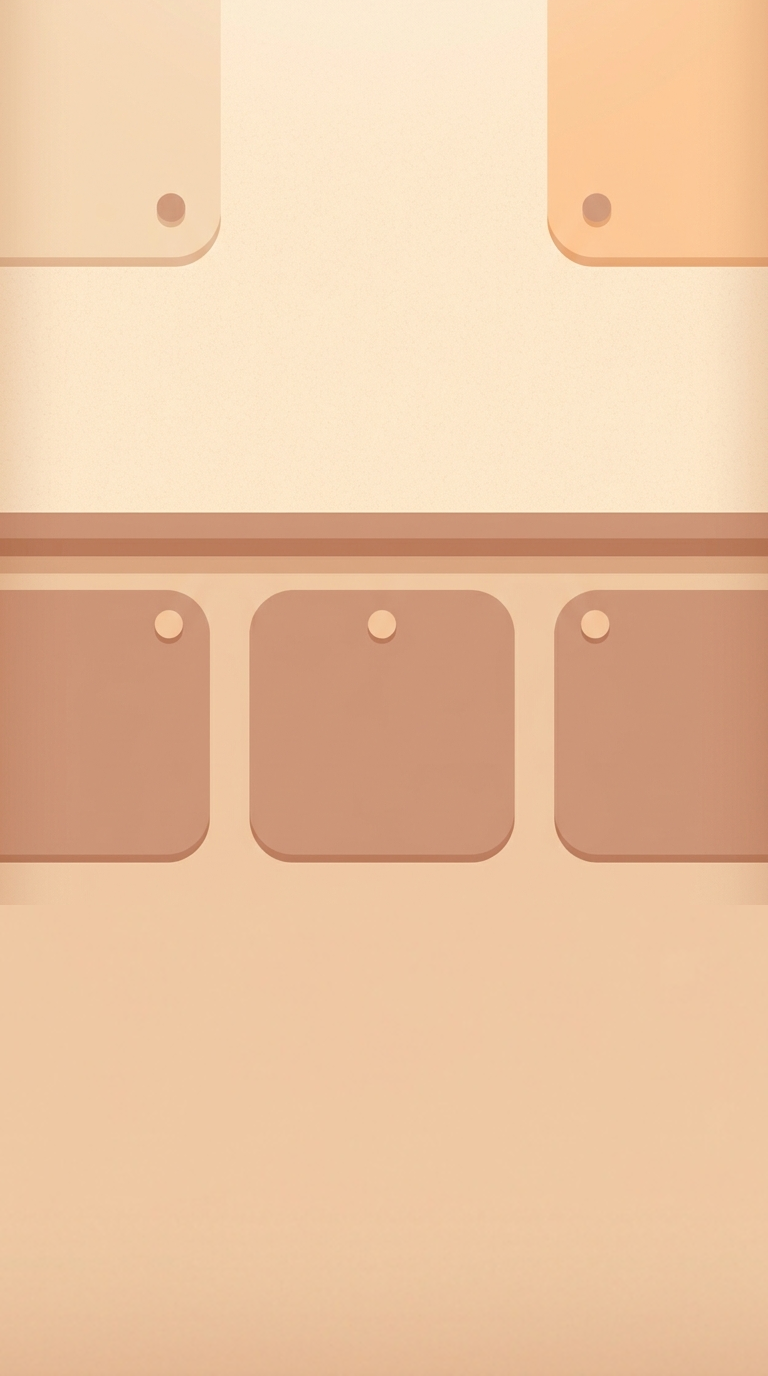
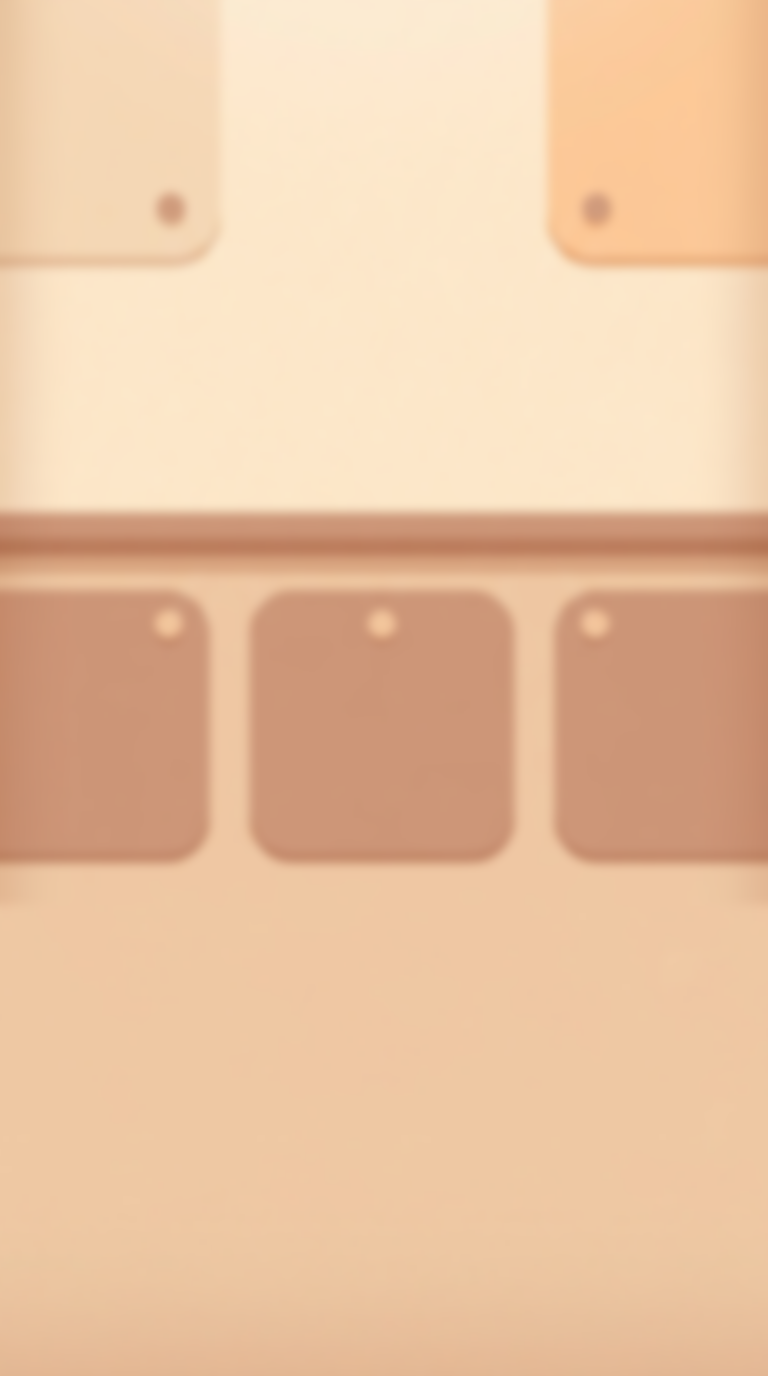
se optimizo el juego en cuanto costo de efectos y se rediseño la pantalla de inicio

diff --git a/src/App.vue b/src/App.vue
@@ -212,48 +212,50 @@ onBeforeUnmount(() => {
   <main class="min-h-screen w-full">
     <section
       v-if="screen === 'home'"
-      class="mx-auto flex min-h-screen w-full max-w-md flex-col justify-between px-4 pb-6 pt-5"
+      class="relative mx-auto flex min-h-screen w-full max-w-md flex-col justify-center items-center overflow-hidden px-4 pb-8 pt-5 bg-[url('/images/game.png')] bg-cover bg-center"
     >
-      <div class="flex min-h-[calc(100vh-2.75rem)] flex-col justify-between rounded-[36px] border border-white/45 bg-[linear-gradient(180deg,rgba(255,248,231,0.88),rgba(226,187,133,0.92))] p-6 shadow-[0_22px_42px_rgba(73,42,20,0.18)]">
-        <div>
-          <p class="text-xs font-black uppercase tracking-[0.38em] text-amber-800/75">Cabinet Mode</p>
-          <h1 class="mt-3 text-4xl font-black leading-none text-[var(--ink)]">Tap the Rat</h1>
-          <p class="mt-4 max-w-sm text-sm leading-6 text-amber-950/80">
-            Golpea ratones, evita trampas y alcanza la meta dentro de esta alacena caótica.
-          </p>
-        </div>
+      
 
-        <div class="relative mt-8 flex flex-1 items-center justify-center">
-          <div class="cabinet-shadow relative flex h-[22rem] w-full max-w-sm items-center justify-center overflow-hidden rounded-[34px] border border-white/50 bg-[linear-gradient(180deg,#cf9a68_0%,#8e5d3b_100%)]">
-            <div class="absolute inset-0 bg-[radial-gradient(circle_at_top,rgba(255,245,213,0.25),transparent_32%)]" />
-            <div class="absolute inset-x-5 top-[5.5rem] h-6 rounded-full wood-plank" />
-            <div class="absolute inset-x-5 top-[10.5rem] h-6 rounded-full wood-plank" />
-            <div class="absolute inset-x-5 bottom-[5.5rem] h-6 rounded-full wood-plank" />
-            <div class="absolute left-7 top-[6.5rem] text-4xl">🐭</div>
-            <div class="absolute right-7 bottom-[6.5rem] text-4xl">🧨</div>
-            <div class="cat-bop text-8xl">🐱</div>
-          </div>
-        </div>
+      <div class="pointer-events-none absolute left-1/2 top-3/4 h-[400px] w-[400px] -translate-x-1/2 -translate-y-1/2">
+        <div
+          class="cat-idle h-full w-full bg-no-repeat opacity-95 brightness-95 drop-shadow-xl"
+          style="background-image: url('/images/cat_sprite.png'); background-position: -2400px 0; background-size: 2800px 400px;"
+        ></div>
+      </div> 
 
-        <div class="soft-panel rounded-[28px] border border-white/50 p-4">
-          <div class="flex items-center justify-between text-xs font-black uppercase tracking-[0.24em] text-amber-800/75">
-            <span>Precarga</span>
-            <span>{{ preloadProgress }}%</span>
-          </div>
-          <div class="mt-3 h-3 overflow-hidden rounded-full bg-amber-950/10">
-            <div
-              class="h-full rounded-full bg-gradient-to-r from-orange-400 via-amber-500 to-lime-500 transition-[width] duration-150"
-              :style="{ width: `${preloadProgress}%` }"
-            />
-          </div>
-          <PressButton
-            class="mt-4 w-full rounded-2xl bg-[var(--wood-dark)] px-5 py-4 text-base font-black text-[var(--cream)] transition hover:brightness-110 disabled:cursor-not-allowed disabled:opacity-40"
-            :disabled="!canPlay"
-            @click="startGame"
-          >
-            Jugar
-          </PressButton>
+      <div class="absolute inset-0 bg-stone-950/45" />
+
+      <div class="relative z-20 text-center text-white p-4">
+
+        <p class="text-sm font-semibold uppercase tracking-[0.45em] text-amber-950/80">
+          Tap the Rat
+        </p>
+        <h1 class="mt-4 text-5xl font-black tracking-tight">
+          Captura los Ratones
+        </h1>
+        <p class="mt-4 max-w-sm text-sm leading-6 text-white/80">
+          {{ canPlay ? 'Golpea ratones, evita bombas y cumple la meta antes de que se acabe el tiempo.' : 'Cargando recursos...' }}
+        </p>
+
+        <div class="mt-6 h-3 overflow-hidden rounded-full bg-amber-950/12">
+          <div
+            class="h-full rounded-full bg-gradient-to-r from-orange-400 via-amber-500 to-lime-500 transition-[width] duration-150"
+            :style="{ width: `${preloadProgress}%` }"
+          />
         </div>
+        <div class="flex items-center justify-between text-xs font-black uppercase tracking-[0.24em">
+          <span>Precarga</span>
+          <span>{{ preloadProgress }}%</span>
+        </div>
+        
+        
+        <PressButton
+          class="mt-6 w-auto px-10 mx-auto rounded-full bg-white py-3 uppercase text-base text-black font-black transition hover:brightness-110 disabled:cursor-not-allowed disabled:opacity-40"
+          :disabled="!canPlay"
+          @click="startGame"
+        >
+          Jugar
+        </PressButton>
       </div>
     </section>
 

diff --git a/src/components/GameBoard.vue b/src/components/GameBoard.vue
@@ -1,5 +1,5 @@
 <script setup lang="ts">
-import { computed, ref } from 'vue'
+import { computed, onBeforeUnmount, ref } from 'vue'
 import CatPlayer from './CatPlayer.vue'
 import SpawnPoint from './SpawnPoint.vue'
 import { GAME_CONFIG } from '../game/config/gameConfig'
@@ -24,6 +24,8 @@ const bombOverlayActive = ref(false)
 let clawSoundTemplate: HTMLAudioElement | null = null
 let bombSoundTemplate: HTMLAudioElement | null = null
 let bombOverlayTimer: number | null = null
+const scratchTimers = new Set<number>()
+const explosionTimers = new Set<number>()
 
 function pointFor(row: number, side: SpawnPointModel['side']) {
   return props.spawnPoints.find((point) => point.row === row && point.side === side)
@@ -40,10 +42,9 @@ function playScratchSound() {
     clawSoundTemplate.volume = 0.8
   }
 
-  const sound = clawSoundTemplate.cloneNode() as HTMLAudioElement
-  sound.volume = clawSoundTemplate.volume
-  sound.currentTime = 0.18
-  void sound.play().catch(() => {})
+  clawSoundTemplate.pause()
+  clawSoundTemplate.currentTime = 0.18
+  void clawSoundTemplate.play().catch(() => {})
 }
 
 function playBombSound() {
@@ -53,10 +54,9 @@ function playBombSound() {
     bombSoundTemplate.volume = 0.9
   }
 
-  const sound = bombSoundTemplate.cloneNode() as HTMLAudioElement
-  sound.volume = bombSoundTemplate.volume
-  sound.currentTime = 0.18
-  void sound.play().catch(() => {})
+  bombSoundTemplate.pause()
+  bombSoundTemplate.currentTime = 0.18
+  void bombSoundTemplate.play().catch(() => {})
 }
 
 function addScratch(clientX: number, clientY: number, rect: DOMRect) {
@@ -68,9 +68,12 @@ function addScratch(clientX: number, clientY: number, rect: DOMRect) {
   scratches.value = [...scratches.value, { id, x, y, rotate }]
   playScratchSound()
 
-  window.setTimeout(() => {
+  const timer = window.setTimeout(() => {
     scratches.value = scratches.value.filter((scratch) => scratch.id !== id)
+    scratchTimers.delete(timer)
   }, GAME_CONFIG.scratchAnimationMs)
+
+  scratchTimers.add(timer)
 }
 
 function addExplosion(clientX: number, clientY: number, rect: DOMRect) {
@@ -81,9 +84,12 @@ function addExplosion(clientX: number, clientY: number, rect: DOMRect) {
   explosions.value = [...explosions.value, { id, x, y }]
   playBombSound()
 
-  window.setTimeout(() => {
+  const timer = window.setTimeout(() => {
     explosions.value = explosions.value.filter((explosion) => explosion.id !== id)
+    explosionTimers.delete(timer)
   }, GAME_CONFIG.bombExplosionAnimationMs)
+
+  explosionTimers.add(timer)
 }
 
 function triggerBombOverlay() {
@@ -111,11 +117,11 @@ function handleAttack(row: number, side: SpawnPointModel['side'], clientX: numbe
   const centerY = rect.top + rect.height / 2
   const rat = ratFor(row, side)
 
-  addScratch(clientX, clientY, rect)
-
   if (rat?.type === 'bomb') {
     addExplosion(clientX, clientY, rect)
     triggerBombOverlay()
+  } else {
+    addScratch(clientX, clientY, rect)
   }
 
   emit('attack', row, side, {
@@ -123,6 +129,22 @@ function handleAttack(row: number, side: SpawnPointModel['side'], clientX: numbe
     y: (clientY - centerY) / (rect.height / 2)
   })
 }
+
+onBeforeUnmount(() => {
+  scratchTimers.forEach((timer) => window.clearTimeout(timer))
+  explosionTimers.forEach((timer) => window.clearTimeout(timer))
+  scratchTimers.clear()
+  explosionTimers.clear()
+
+  if (bombOverlayTimer !== null) {
+    window.clearTimeout(bombOverlayTimer)
+    bombOverlayTimer = null
+  }
+
+  scratches.value = []
+  explosions.value = []
+  bombOverlayActive.value = false
+})
 </script>
 
 <template>
@@ -135,15 +157,16 @@ function handleAttack(row: number, side: SpawnPointModel['side'], clientX: numbe
                 bg-[url('/images/game.png')] 
                 bg-cover 
                 bg-center
-                opacity-50 blur-[2px] 
+                opacity-50
                 scale-105
                 z-0">
     </div>
     <div
       class="pointer-events-none absolute inset-0 z-40 transition-opacity duration-300"
       :class="bombOverlayActive ? 'opacity-100' : 'opacity-0'"
-      style="background: rgba(32, 19, 14, 0.34); backdrop-filter: blur(10px);"
-    />
+    >
+      <div class="bomb-penalty-overlay absolute inset-0" />
+    </div>
     <div class="relative flex h-full flex-col justify-center gap-12 pt-28 pb-28">
       <div
         v-for="row in rows"

diff --git a/src/style.css b/src/style.css
@@ -61,10 +61,17 @@ button {
 }
 
 .bomb-burst {
-  width: 5rem;
-  height: 5rem;
+  width: 5.8rem;
+  height: 5.8rem;
   transform: translate(-50%, -50%);
   animation: bomb-burst 420ms cubic-bezier(0.2, 0.8, 0.2, 1) forwards;
+}
+
+.bomb-penalty-overlay {
+  background:
+    radial-gradient(circle at center, rgba(43, 25, 15, 0.4) 0%, rgba(34, 19, 11, 0.54) 26%, rgba(23, 12, 8, 0.76) 58%, rgba(11, 6, 4, 0.92) 100%),
+    linear-gradient(180deg, rgba(24, 12, 8, 0.32), rgba(12, 6, 4, 0.52));
+  animation: bomb-penalty-pulse 360ms ease-out;
 }
 
 .bomb-burst i,
@@ -191,19 +198,16 @@ button {
   0% {
     opacity: 1;
     transform: scale(1) rotate(0deg);
-    filter: brightness(1);
   }
 
   35% {
     opacity: 1;
     transform: scale(1.12) rotate(-14deg);
-    filter: brightness(1.15);
   }
 
   100% {
     opacity: 0;
     transform: scale(0.58) rotate(26deg);
-    filter: brightness(0.7) blur(1px);
   }
 }
 
@@ -241,6 +245,16 @@ button {
     opacity: 0;
     transform: translate(-50%, -50%) scale(1.7);
     filter: brightness(0.9);
+  }
+}
+
+@keyframes bomb-penalty-pulse {
+  0% {
+    opacity: 0.15;
+  }
+
+  100% {
+    opacity: 1;
   }
 }
 

diff --git a/src/components/PressButton.vue b/src/components/PressButton.vue
@@ -34,9 +34,8 @@ function ensureSound() {
 }
 
 function playSound() {
-  const template = ensureSound()
-  const sound = template.cloneNode() as HTMLAudioElement
-  sound.volume = template.volume
+  const sound = ensureSound()
+  sound.pause()
   sound.currentTime = 0.18
   void sound.play().catch(() => {})
 }
